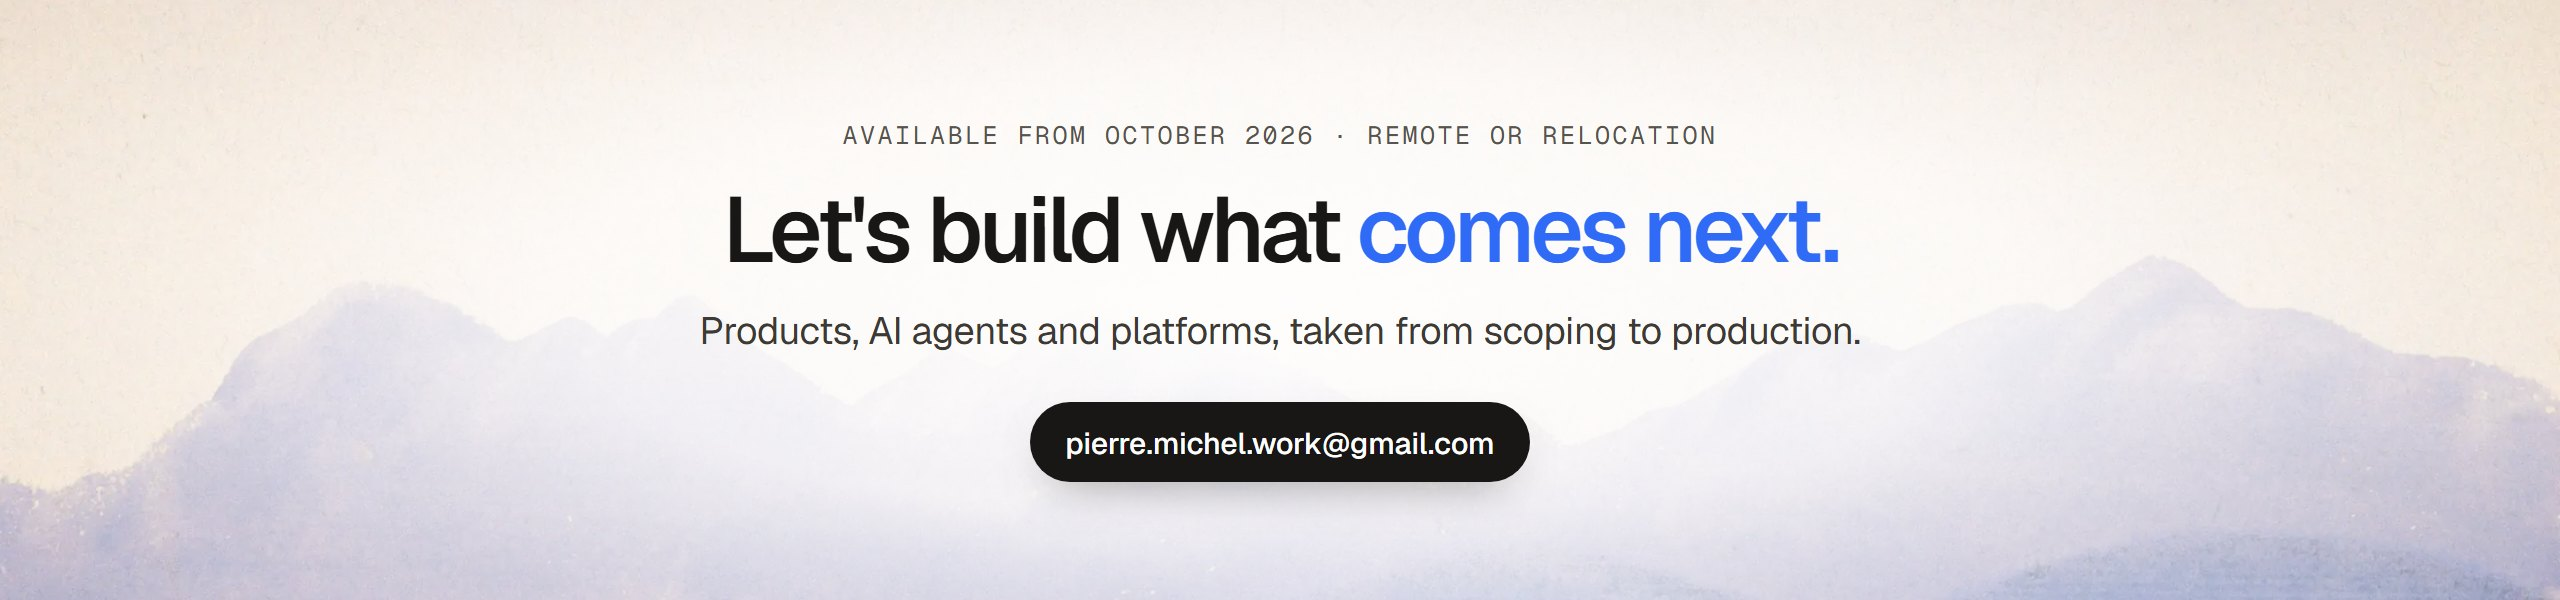
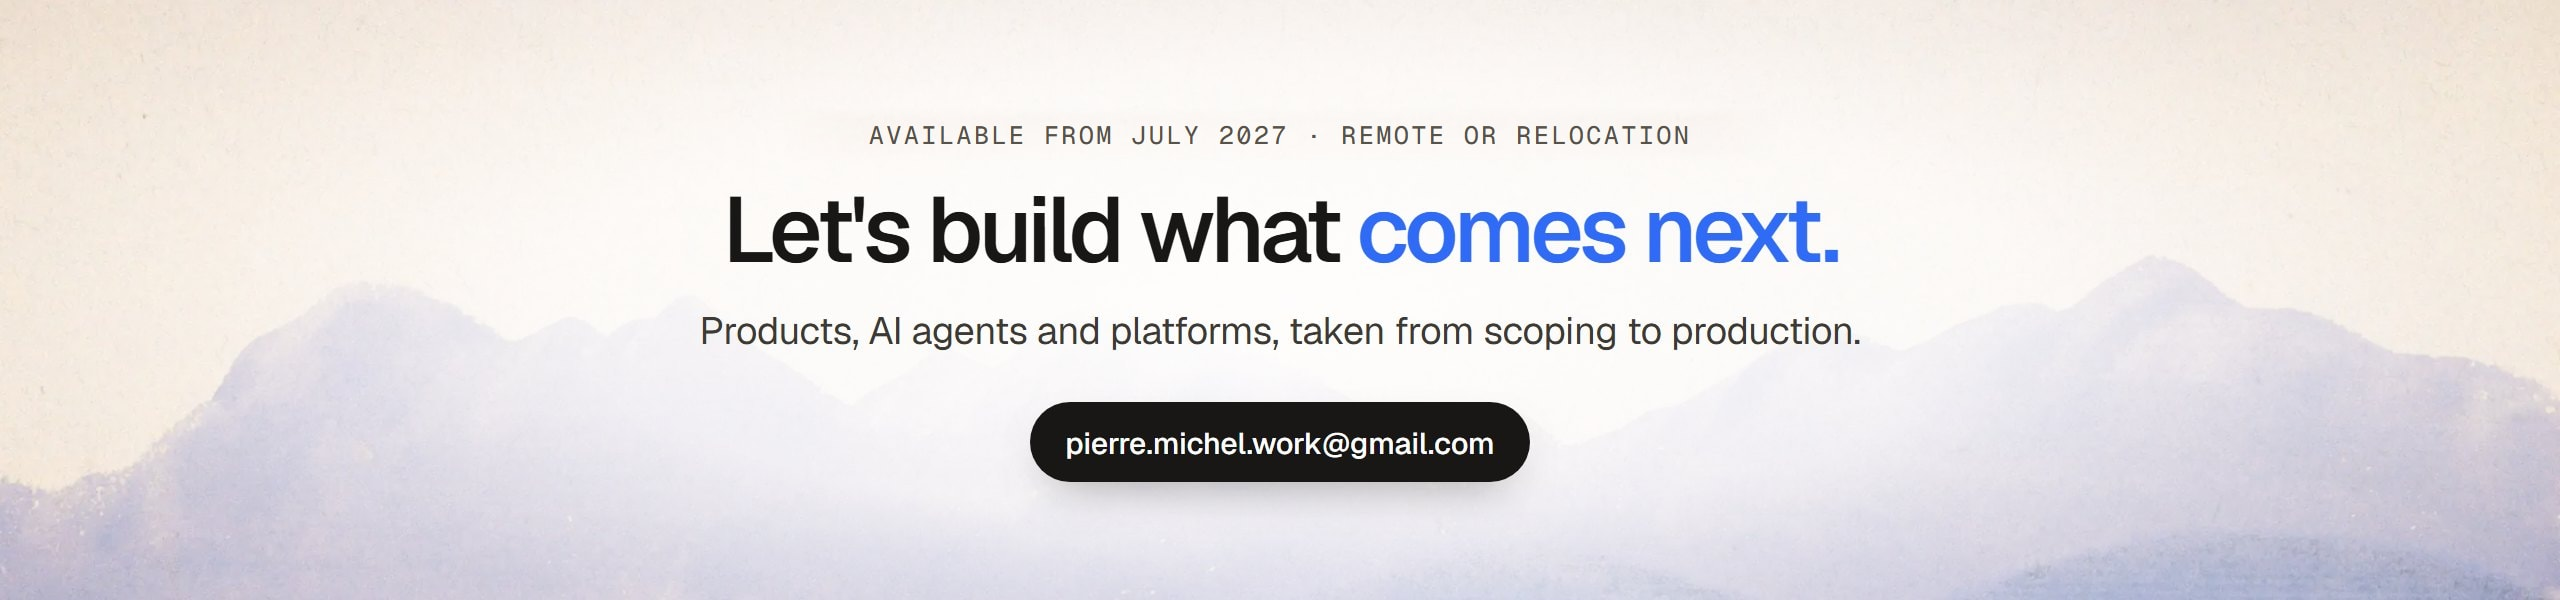
profile: BlackFin internship, availability from July 2027, TaskForce website
- Intro and experience: AI intern at BlackFin in Brussels, January to July
  2027.
- Contact banner and its alt text: available from July 2027 (was October 2026).
- TaskForce: a Website button next to the GitHub, download and docs ones.

Changed region(s): [[0.3125, 0.21, 0.6875, 0.24]]

diff --git a/README.md b/README.md
@@ -6,7 +6,7 @@
 
 <p align="center">
   <b>Full-stack software engineer moving into applied AI.</b> Architecture, LLM agents and product design, from scoping to production.<br />
-  Based in France, open to remote work and relocation, available from October 2026.
+  Based in France. AI intern at BlackFin in Brussels from January to July 2027, then open to remote work and relocation.
 </p>
 
 <p align="center">
@@ -107,6 +107,7 @@ and Trivy on every pull request.
 </p>
 
 <p align="center">
+  <a href="https://taskforce-project.fr"><img src="https://img.shields.io/badge/Website-2f6bf6?style=for-the-badge" alt="TaskForce website" /></a>
   <a href="https://github.com/taskforce-project/taskforce-fullstack"><img src="https://img.shields.io/badge/Star%20TaskForce-191715?style=for-the-badge&logo=github&logoColor=white" alt="Star TaskForce on GitHub" /></a>
   <a href="https://taskforce-project.fr/download"><img src="https://img.shields.io/badge/Download%20for%20Windows%20and%20Linux-2f6bf6?style=for-the-badge" alt="Download TaskForce" /></a>
   <a href="https://docs.taskforce-project.fr"><img src="https://img.shields.io/badge/Documentation-191715?style=for-the-badge" alt="TaskForce documentation" /></a>
@@ -185,6 +186,7 @@ public in the [Brain OS vault](https://github.com/taskforce-project/taskforce-do
 
 | Organization | Role | Field | |
 | --- | --- | --- | --- |
+| BlackFin, Brussels (January to July 2027) | AI intern | AI, Transformation team | Employer |
 | TechGuys | Tech Lead | Consulting, AI | Employer |
 | Plania | Head of Engineering | SaaS, AI | Employer |
 | Safex Transport | Tech Lead | Freight logistics | Client |
@@ -237,7 +239,7 @@ public in the [Brain OS vault](https://github.com/taskforce-project/taskforce-do
 
 <p align="center">
   <a href="mailto:pierre.michel.work@gmail.com">
-    <img src="./assets/contact.jpg" alt="Let's build what comes next. Available from October 2026, remote or relocation. pierre.michel.work@gmail.com" width="100%" />
+    <img src="./assets/contact.jpg" alt="Let's build what comes next. Available from July 2027, remote or relocation. pierre.michel.work@gmail.com" width="100%" />
   </a>
 </p>
 
